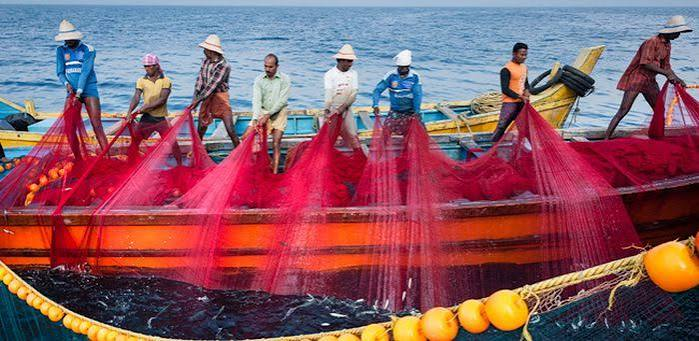
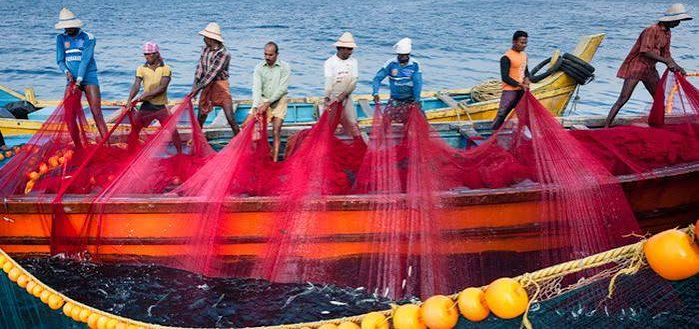
style: assign distinct purpose-driven colors and vector themes to all 4 Telemetry cards (Emerald for Fish Shoal, Amber Gold for Diesel Fuel, Electric Cyan for Cruising Time, and Crimson Red for IMBL Border)

diff --git a/client/src/components/Telemetry.jsx b/client/src/components/Telemetry.jsx
@@ -19,104 +19,107 @@ export default function Telemetry({ route, hotspot, weather, geofence }) {
   return (
     <div className="grid grid-cols-2 lg:grid-cols-4 gap-3 sm:gap-4">
       
-      {/* 1. TARGET FISH SHOAL CAPSULE */}
-      <div className="glass-panel-interactive rounded-3xl p-4 sm:p-5 flex flex-col justify-between min-h-[125px] sm:min-h-[140px] relative overflow-hidden group">
+      {/* ========================================================================= */}
+      {/* 1. TARGET FISH SHOAL CAPSULE (Ocean Green & Bioluminescent Cyan) */}
+      {/* ========================================================================= */}
+      <div className="glass-panel-interactive rounded-3xl p-4 sm:p-5 flex flex-col justify-between min-h-[130px] sm:min-h-[145px] relative overflow-hidden group border border-emerald-500/35 hover:border-emerald-400/70 transition-all shadow-[0_15px_30px_rgba(0,245,160,0.08)]">
         
-        {/* Animated Background Fish Shoal Illustration */}
-        <div className="absolute -right-4 -bottom-3 w-32 h-24 pointer-events-none opacity-20 group-hover:opacity-40 transition-opacity duration-500">
+        {/* Animated Background Emerald Fish Shoal */}
+        <div className="absolute -right-4 -bottom-3 w-32 h-24 pointer-events-none opacity-25 group-hover:opacity-50 transition-opacity duration-500">
           <svg viewBox="0 0 160 100" fill="none" className="w-full h-full text-emerald-400 animate-float">
-            {/* Swimming Fish 1 */}
             <path d="M40,30 C60,20 90,25 110,35 C125,25 140,20 135,35 C140,50 125,45 110,35 C90,45 60,50 40,40 C30,45 20,50 15,35 C20,20 30,25 40,30 Z" fill="currentColor"/>
             <circle cx="50" cy="33" r="2.5" fill="#020712"/>
-            {/* Swimming Fish 2 (Smaller) */}
             <path d="M70,60 C85,52 105,56 120,63 C130,55 142,52 138,63 C142,75 130,71 120,63 C105,71 85,75 70,68 C62,72 55,75 50,63 C55,52 62,55 70,60 Z" fill="currentColor" opacity="0.7"/>
-            {/* Swimming Fish 3 */}
             <path d="M10,70 C22,64 38,67 50,73 C58,67 68,64 65,73 C68,82 58,79 50,73 C38,79 22,82 10,77 C4,80 -2,82 -6,73 C-2,64 4,67 10,70 Z" fill="currentColor" opacity="0.5"/>
-            {/* Air Bubbles */}
             <circle cx="120" cy="20" r="3" fill="#00f5a0" opacity="0.6"/>
             <circle cx="135" cy="15" r="2" fill="#00f5a0" opacity="0.4"/>
             <circle cx="95" cy="45" r="2" fill="#00f5a0" opacity="0.5"/>
           </svg>
         </div>
 
-        {/* Ambient Top Glow */}
-        <div className="absolute top-0 right-0 w-24 h-24 bg-emerald-400/10 rounded-full blur-2xl group-hover:bg-emerald-400/20 transition duration-500"></div>
+        {/* Ambient Emerald Glow */}
+        <div className="absolute top-0 right-0 w-24 h-24 bg-emerald-500/15 rounded-full blur-2xl group-hover:bg-emerald-500/30 transition duration-500"></div>
 
-        {/* Content */}
+        {/* Header */}
         <div className="relative z-10 flex items-center justify-between gap-1">
-          <span className="text-[11px] sm:text-xs font-bold text-emerald-300 flex items-center gap-1.5 drop-shadow">
+          <span className="text-[11px] sm:text-xs font-black text-emerald-300 flex items-center gap-1.5 drop-shadow">
             <span>🐟</span> <span className="truncate">Marine Shoal</span>
           </span>
-          <span className="bg-emerald-500/25 text-emerald-300 border border-emerald-400/40 px-2 py-0.5 rounded-full text-[9px] sm:text-[10px] font-mono font-black shadow-sm">
+          <span className="bg-emerald-500/25 text-emerald-300 border border-emerald-400/50 px-2 py-0.5 rounded-full text-[9px] sm:text-[10px] font-mono font-black shadow">
             {hotspot?.confidence_score || 97}%
           </span>
         </div>
 
+        {/* Species Name */}
         <div className="relative z-10 my-1">
           <div className="text-xs sm:text-sm font-black text-white line-clamp-2 leading-tight drop-shadow-md">
             {cleanSpecies}
           </div>
         </div>
 
-        <div className="relative z-10 text-[10px] sm:text-[11px] text-slate-300 font-mono flex items-center justify-between border-t border-white/10 pt-1.5 mt-auto">
-          <span className="text-cyan-300 font-bold">{hotspot?.distance_nm || 20} NM offshore</span>
-          <span className="text-emerald-300 font-bold">{hotspot?.sst_celsius || 27.4}°C</span>
+        {/* Bottom Strip */}
+        <div className="relative z-10 text-[10px] sm:text-[11px] text-slate-300 font-mono flex items-center justify-between border-t border-emerald-500/20 pt-1.5 mt-auto">
+          <span className="text-emerald-300 font-bold">{hotspot?.distance_nm || 20} NM offshore</span>
+          <span className="text-emerald-400 font-black">{hotspot?.sst_celsius || 27.4}°C</span>
         </div>
       </div>
 
-      {/* 2. DIESEL FUEL SAVINGS CAPSULE */}
-      <div className="glass-panel-interactive rounded-3xl p-4 sm:p-5 flex flex-col justify-between min-h-[125px] sm:min-h-[140px] relative overflow-hidden group">
+      {/* ========================================================================= */}
+      {/* 2. DIESEL FUEL SAVINGS CAPSULE (Vibrant Amber Gold & Energy Stream) */}
+      {/* ========================================================================= */}
+      <div className="glass-panel-interactive rounded-3xl p-4 sm:p-5 flex flex-col justify-between min-h-[130px] sm:min-h-[145px] relative overflow-hidden group border border-amber-500/35 hover:border-amber-400/70 transition-all shadow-[0_15px_30px_rgba(245,158,11,0.08)]">
         
-        {/* Animated Background Fuel Vector & Hydrodynamic Current Stream */}
-        <div className="absolute -right-3 -bottom-2 w-32 h-28 pointer-events-none opacity-20 group-hover:opacity-45 transition-opacity duration-500">
-          <svg viewBox="0 0 120 100" fill="none" className="w-full h-full text-cyan-400">
-            {/* Hydrodynamic Streamlines */}
+        {/* Animated Background Amber Fuel Canister & Hydrodynamic Streamlines */}
+        <div className="absolute -right-3 -bottom-2 w-32 h-28 pointer-events-none opacity-25 group-hover:opacity-50 transition-opacity duration-500">
+          <svg viewBox="0 0 120 100" fill="none" className="w-full h-full text-amber-400">
             <path d="M-10,30 Q30,10 60,35 T130,25" stroke="currentColor" strokeWidth="2.5" strokeDasharray="6,4" className="animate-pulse-slow"/>
             <path d="M-10,55 Q40,35 75,60 T130,50" stroke="currentColor" strokeWidth="2" strokeDasharray="8,6"/>
             <path d="M-10,80 Q50,60 90,85 T130,75" stroke="currentColor" strokeWidth="1.5"/>
-            {/* Fuel Canister Silhouette */}
-            <path d="M85,35 L95,35 L95,45 L110,45 L110,85 L75,85 L75,45 L85,45 Z" fill="currentColor" opacity="0.3"/>
-            <path d="M90,25 L100,25 L100,35 L90,35 Z" fill="currentColor" opacity="0.5"/>
-            <circle cx="92" cy="65" r="8" stroke="#00d2ff" strokeWidth="2" opacity="0.6"/>
+            <path d="M85,35 L95,35 L95,45 L110,45 L110,85 L75,85 L75,45 L85,45 Z" fill="currentColor" opacity="0.35"/>
+            <path d="M90,25 L100,25 L100,35 L90,35 Z" fill="currentColor" opacity="0.6"/>
+            <circle cx="92" cy="65" r="8" stroke="#fbbf24" strokeWidth="2" opacity="0.8"/>
           </svg>
         </div>
 
-        {/* Ambient Cyan Glow */}
-        <div className="absolute top-0 right-0 w-24 h-24 bg-cyan-400/10 rounded-full blur-2xl group-hover:bg-cyan-400/25 transition duration-500"></div>
+        {/* Ambient Amber Glow */}
+        <div className="absolute top-0 right-0 w-24 h-24 bg-amber-500/15 rounded-full blur-2xl group-hover:bg-amber-500/30 transition duration-500"></div>
 
-        {/* Content */}
+        {/* Header */}
         <div className="relative z-10 flex items-center justify-between gap-1">
-          <span className="text-[11px] sm:text-xs font-bold text-cyan-300 flex items-center gap-1.5 drop-shadow">
-            <Fuel className="w-3.5 h-3.5 text-cyan-400 shrink-0 animate-bounce" />
+          <span className="text-[11px] sm:text-xs font-black text-amber-300 flex items-center gap-1.5 drop-shadow">
+            <Fuel className="w-3.5 h-3.5 text-amber-400 shrink-0 animate-bounce" />
             <span className="truncate">Fuel Saved</span>
           </span>
-          <span className="bg-cyan-500/25 text-cyan-300 border border-cyan-400/40 px-2 py-0.5 rounded-full text-[9px] sm:text-[10px] font-mono font-black shadow-sm">
+          <span className="bg-amber-500/25 text-amber-300 border border-amber-400/50 px-2 py-0.5 rounded-full text-[9px] sm:text-[10px] font-mono font-black shadow">
             -{savingsPct}%
           </span>
         </div>
 
+        {/* Rupee Value */}
         <div className="relative z-10 my-0.5">
-          <div className="text-xl sm:text-2xl font-black text-white font-mono tracking-tight drop-shadow-md">
+          <div className="text-xl sm:text-2xl font-black text-amber-300 font-mono tracking-tight drop-shadow-md">
             ₹{fuelSaved.toLocaleString()}
           </div>
         </div>
 
-        <div className="relative z-10 text-[10px] sm:text-[11px] text-slate-300 font-mono flex items-center justify-between border-t border-white/10 pt-1.5 mt-auto">
-          <span className="text-cyan-300 font-semibold truncate">+{weather?.ocean_current_knots || 1.35} kts assist</span>
-          <span className="text-emerald-300 font-bold shrink-0">{litresSaved} L</span>
+        {/* Bottom Strip */}
+        <div className="relative z-10 text-[10px] sm:text-[11px] text-slate-300 font-mono flex items-center justify-between border-t border-amber-500/20 pt-1.5 mt-auto">
+          <span className="text-amber-300 font-semibold truncate">+{weather?.ocean_current_knots || 1.35} kts assist</span>
+          <span className="text-amber-400 font-black shrink-0">{litresSaved} L</span>
         </div>
       </div>
 
-      {/* 3. VOYAGE TIME SAVED CAPSULE */}
-      <div className="glass-panel-interactive rounded-3xl p-4 sm:p-5 flex flex-col justify-between min-h-[125px] sm:min-h-[140px] relative overflow-hidden group">
+      {/* ========================================================================= */}
+      {/* 3. VOYAGE TIME SAVED CAPSULE (Electric Cyan / Sky Blue & Chronometer) */}
+      {/* ========================================================================= */}
+      <div className="glass-panel-interactive rounded-3xl p-4 sm:p-5 flex flex-col justify-between min-h-[130px] sm:min-h-[145px] relative overflow-hidden group border border-cyan-500/35 hover:border-cyan-400/70 transition-all shadow-[0_15px_30px_rgba(6,182,212,0.08)]">
         
         {/* Animated Background Nautical Chronometer Dial */}
-        <div className="absolute -right-6 -bottom-6 w-32 h-32 pointer-events-none opacity-20 group-hover:opacity-40 transition-opacity duration-500">
-          <svg viewBox="0 0 100 100" fill="none" className="w-full h-full text-emerald-400 animate-spin" style={{ animationDuration: '24s' }}>
+        <div className="absolute -right-6 -bottom-6 w-32 h-32 pointer-events-none opacity-25 group-hover:opacity-50 transition-opacity duration-500">
+          <svg viewBox="0 0 100 100" fill="none" className="w-full h-full text-cyan-400 animate-spin" style={{ animationDuration: '24s' }}>
             <circle cx="50" cy="50" r="45" stroke="currentColor" strokeWidth="1.5" strokeDasharray="4,3"/>
             <circle cx="50" cy="50" r="36" stroke="currentColor" strokeWidth="1"/>
             <path d="M50,15 L50,50 L75,50" stroke="currentColor" strokeWidth="2.5" strokeLinecap="round"/>
-            {/* Compass Compass Rose Points */}
             <polygon points="50,5 53,20 50,16 47,20" fill="currentColor"/>
             <polygon points="95,50 80,53 84,50 80,47" fill="currentColor"/>
             <polygon points="50,95 47,80 50,84 53,80" fill="currentColor"/>
@@ -124,79 +127,75 @@ export default function Telemetry({ route, hotspot, weather, geofence }) {
           </svg>
         </div>
 
-        {/* Ambient Glow */}
-        <div className="absolute top-0 right-0 w-24 h-24 bg-emerald-500/10 rounded-full blur-2xl group-hover:bg-emerald-500/25 transition duration-500"></div>
+        {/* Ambient Cyan Glow */}
+        <div className="absolute top-0 right-0 w-24 h-24 bg-cyan-500/15 rounded-full blur-2xl group-hover:bg-cyan-500/30 transition duration-500"></div>
 
-        {/* Content */}
+        {/* Header */}
         <div className="relative z-10 flex items-center justify-between gap-1">
-          <span className="text-[11px] sm:text-xs font-bold text-emerald-300 flex items-center gap-1.5 drop-shadow">
-            <Clock className="w-3.5 h-3.5 text-emerald-400 shrink-0" />
+          <span className="text-[11px] sm:text-xs font-black text-cyan-300 flex items-center gap-1.5 drop-shadow">
+            <Clock className="w-3.5 h-3.5 text-cyan-400 shrink-0" />
             <span className="truncate">Time Saved</span>
           </span>
-          <span className="bg-emerald-500/25 text-emerald-300 border border-emerald-400/40 px-2 py-0.5 rounded-full text-[9px] sm:text-[10px] font-mono font-black shadow-sm">
+          <span className="bg-cyan-500/25 text-cyan-300 border border-cyan-400/50 px-2 py-0.5 rounded-full text-[9px] sm:text-[10px] font-mono font-black shadow">
             🌿 {co2Reduction}kg
           </span>
         </div>
 
+        {/* Time Value */}
         <div className="relative z-10 my-0.5">
-          <div className="text-xl sm:text-2xl font-black text-white font-mono tracking-tight drop-shadow-md">
+          <div className="text-xl sm:text-2xl font-black text-cyan-300 font-mono tracking-tight drop-shadow-md">
             {timeSaved} mins
           </div>
         </div>
 
-        <div className="relative z-10 text-[10px] sm:text-[11px] text-slate-300 font-mono flex items-center justify-between border-t border-white/10 pt-1.5 mt-auto">
+        {/* Bottom Strip */}
+        <div className="relative z-10 text-[10px] sm:text-[11px] text-slate-300 font-mono flex items-center justify-between border-t border-cyan-500/20 pt-1.5 mt-auto">
           <span className="text-slate-300">Cruising:</span>
-          <span className="text-emerald-300 font-bold">{route?.effective_speed_knots || 10.4} kts</span>
+          <span className="text-cyan-300 font-black">{route?.effective_speed_knots || 10.4} kts</span>
         </div>
       </div>
 
-      {/* 4. IMBL BORDER SAFETY CAPSULE */}
-      <div className="glass-panel-interactive rounded-3xl p-4 sm:p-5 flex flex-col justify-between min-h-[125px] sm:min-h-[140px] relative overflow-hidden group">
+      {/* ========================================================================= */}
+      {/* 4. IMBL BORDER SAFETY CAPSULE (Crimson Red / Coral Rose Geofence Guard) */}
+      {/* ========================================================================= */}
+      <div className="glass-panel-interactive rounded-3xl p-4 sm:p-5 flex flex-col justify-between min-h-[130px] sm:min-h-[145px] relative overflow-hidden group border border-rose-500/40 hover:border-rose-400/80 transition-all shadow-[0_15px_30px_rgba(244,63,94,0.12)]">
         
-        {/* Animated Background Radar Sonar Perimeter Grid */}
-        <div className="absolute -right-5 -bottom-5 w-32 h-32 pointer-events-none opacity-20 group-hover:opacity-45 transition-opacity duration-500">
-          <svg viewBox="0 0 100 100" fill="none" className={`w-full h-full ${imblDist > 15 ? 'text-emerald-400' : 'text-amber-400'}`}>
-            {/* Concentric Radar Rings */}
+        {/* Animated Background Crimson Radar Sonar Perimeter Grid */}
+        <div className="absolute -right-5 -bottom-5 w-32 h-32 pointer-events-none opacity-25 group-hover:opacity-50 transition-opacity duration-500">
+          <svg viewBox="0 0 100 100" fill="none" className="w-full h-full text-rose-400">
             <circle cx="65" cy="65" r="45" stroke="currentColor" strokeWidth="1.5" strokeDasharray="6,4" className="animate-pulse"/>
             <circle cx="65" cy="65" r="30" stroke="currentColor" strokeWidth="1.5"/>
             <circle cx="65" cy="65" r="15" stroke="currentColor" strokeWidth="2"/>
-            {/* Border Shield Icon */}
-            <path d="M65,30 L80,35 L80,55 C80,68 65,75 65,75 C65,75 50,68 50,55 L50,35 Z" stroke="currentColor" strokeWidth="2" fill="currentColor" fillOpacity="0.2"/>
+            <path d="M65,30 L80,35 L80,55 C80,68 65,75 65,75 C65,75 50,68 50,55 L50,35 Z" stroke="currentColor" strokeWidth="2" fill="currentColor" fillOpacity="0.25"/>
             <path d="M58,52 L63,57 L72,46" stroke="#fff" strokeWidth="2" strokeLinecap="round" strokeLinejoin="round"/>
           </svg>
         </div>
 
-        {/* Ambient Safety Glow */}
-        <div className={`absolute top-0 right-0 w-24 h-24 rounded-full blur-2xl transition duration-500 ${
-          imblDist > 15 ? 'bg-emerald-400/10 group-hover:bg-emerald-400/25' : 'bg-amber-400/15 group-hover:bg-amber-400/30'
-        }`}></div>
+        {/* Ambient Crimson Rose Glow */}
+        <div className="absolute top-0 right-0 w-24 h-24 bg-rose-500/20 rounded-full blur-2xl group-hover:bg-rose-500/35 transition duration-500"></div>
 
-        {/* Content */}
+        {/* Header */}
         <div className="relative z-10 flex items-center justify-between gap-1">
-          <span className={`text-[11px] sm:text-xs font-bold flex items-center gap-1.5 drop-shadow ${
-            imblDist > 15 ? 'text-emerald-300' : 'text-amber-300'
-          }`}>
-            <Shield className="w-3.5 h-3.5 shrink-0" />
+          <span className="text-[11px] sm:text-xs font-black text-rose-300 flex items-center gap-1.5 drop-shadow">
+            <Shield className="w-3.5 h-3.5 text-rose-400 shrink-0" />
             <span className="truncate">IMBL Border</span>
           </span>
-          <span className={`px-2 py-0.5 rounded-full text-[9px] sm:text-[10px] font-mono font-black shadow-sm border ${
-            imblDist > 15 
-              ? 'bg-emerald-500/25 text-emerald-300 border-emerald-400/40' 
-              : 'bg-amber-500/25 text-amber-300 border-amber-400/40'
-          }`}>
+          <span className="bg-rose-500/25 text-rose-300 border border-rose-400/50 px-2 py-0.5 rounded-full text-[9px] sm:text-[10px] font-mono font-black shadow">
             {imblStatus}
           </span>
         </div>
 
+        {/* Border Distance Value */}
         <div className="relative z-10 my-0.5">
           <div className="text-xl sm:text-2xl font-black text-white font-mono tracking-tight drop-shadow-md">
             {imblDist} km
           </div>
         </div>
 
-        <div className="relative z-10 text-[10px] sm:text-[11px] text-slate-300 font-medium flex items-center gap-1 border-t border-white/10 pt-1.5 mt-auto">
-          {imblDist > 15 ? <CheckCircle2 className="w-3.5 h-3.5 text-emerald-400 shrink-0" /> : <AlertTriangle className="w-3.5 h-3.5 text-amber-400 shrink-0" />}
-          <span className="truncate font-sans font-semibold">Safe territorial waters</span>
+        {/* Bottom Strip */}
+        <div className="relative z-10 text-[10px] sm:text-[11px] text-slate-300 font-medium flex items-center gap-1 border-t border-rose-500/20 pt-1.5 mt-auto">
+          <CheckCircle2 className="w-3.5 h-3.5 text-rose-400 shrink-0" />
+          <span className="truncate font-sans font-bold text-rose-300">Safe territorial waters</span>
         </div>
       </div>
 
